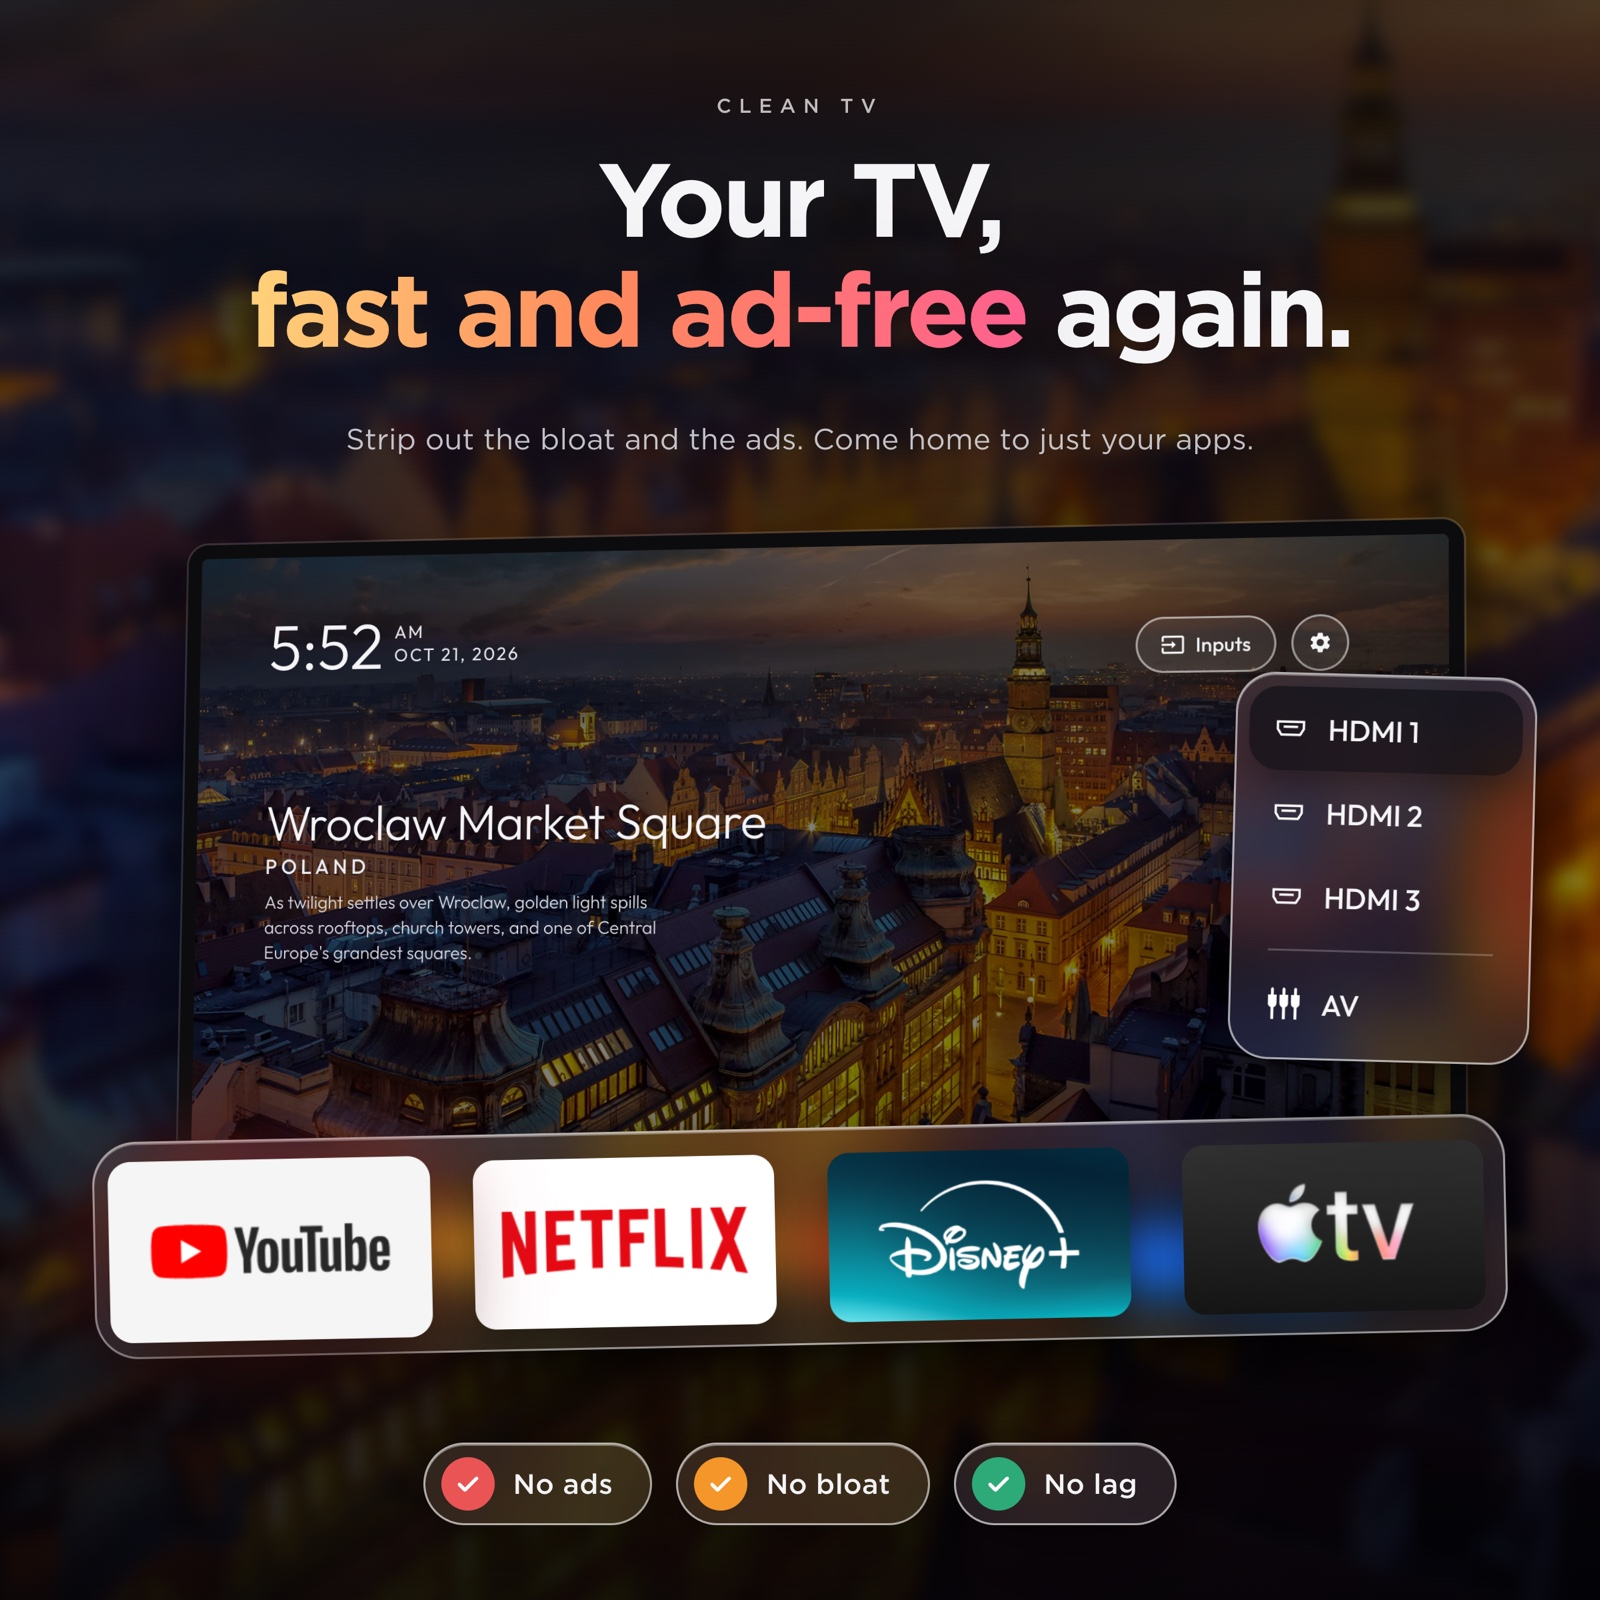
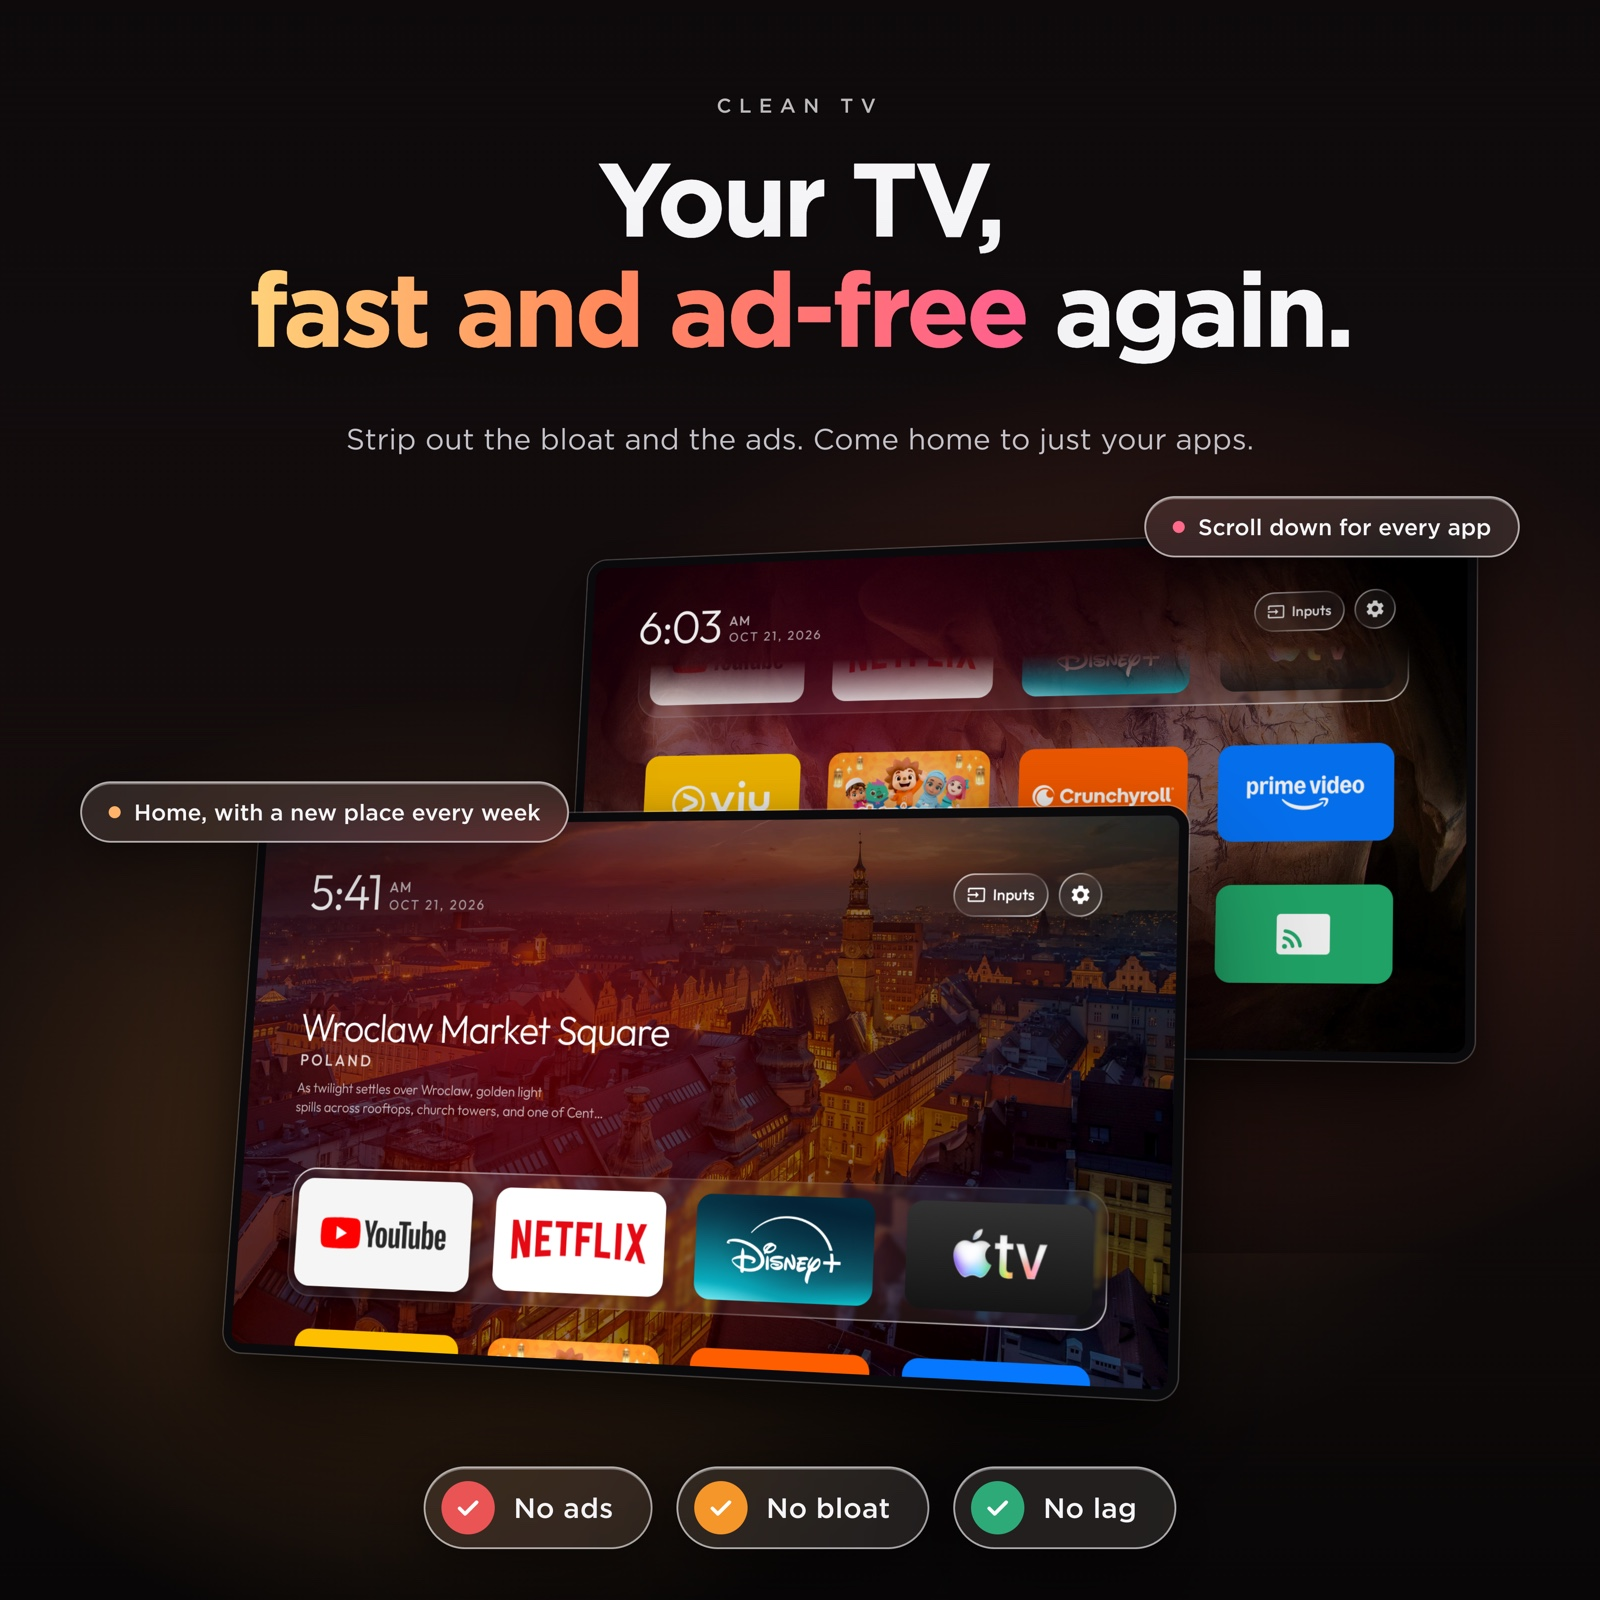
First promo picture: Home and the scrolled grid, two real screens

diff --git a/README.md b/README.md
@@ -9,7 +9,7 @@ and swap the ad-filled home screen for a light Apple TV-style launcher — and a
 new set of places every week.
 
 <p>
-  <img src="docs/screenshots/promo-1-home.jpg" width="32%" alt="Your TV, fast and ad-free again: Home with the glass dock and Inputs menu">
+  <img src="docs/screenshots/promo-1-home.jpg" width="32%" alt="Your TV, fast and ad-free again: Home, and the full grid of apps scrolled down">
   <img src="docs/screenshots/promo-2-clock.jpg" width="32%" alt="Ads off, time on: the clock screensaver">
   <img src="docs/screenshots/promo-3-features.jpg" width="32%" alt="Looks like Apple, runs on Android: glass, Inputs, a place a week, your own app order, no ads">
 </p>
